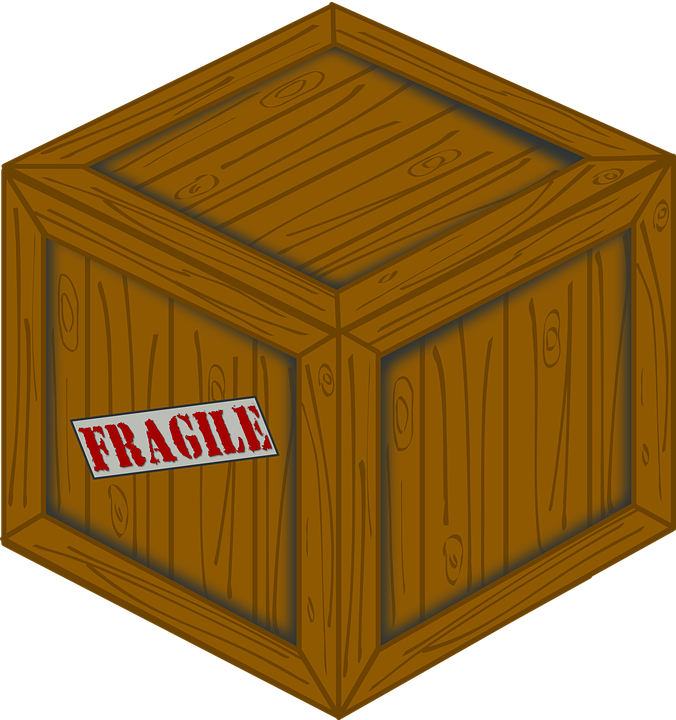
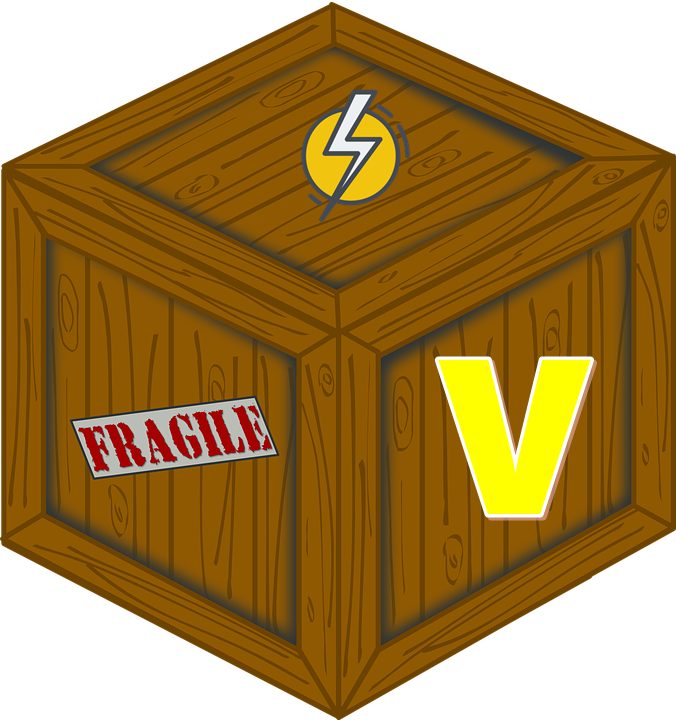
Adicionando caixas e suportes

Changed region(s): [[0.6213, 0.4889, 0.9009, 0.7333], [0.4349, 0.1222, 0.6213, 0.3056]]

diff --git a/model/Personagem.js b/model/Personagem.js
@@ -1,3 +1,4 @@
+//tudo que se move com deslocamento faz parte do cenario formas, caixas.
 function Personagem(){
 
     this.largura = 32;
@@ -19,7 +20,7 @@ function Personagem(){
     
 
     this.atualizarForma =function(){
-        this.forma.x = this.x;
+        this.forma.x = this.x+5;
         this.forma.y = this.y+this.forma.altura;
     }
     this.verificacaoEstouroSprite = function (){
@@ -73,23 +74,22 @@ function Personagem(){
      }   
 
      this.checarColisaoCenario =  function (formas, deslocamento,larguraCenario,alturaCenario){
-        console.log("vai chechar "+formas.length);
-        if(this.x <=  0 ){
+        //console.log("vai chechar "+formas.length);
+        if(this.forma.x <=  0 ){
             this.x=0;
             this.atualizarForma();
             
-        }if(this.x > larguraCenario - this.largura){
-            this.x =larguraCenario - this.largura;
+        }if(this.forma.x > larguraCenario - this.forma.largura){
+            this.x = larguraCenario - this.forma.largura - 5;//cinco é do reposicionamento da forma!
             this.atualizarForma();
             
-        }if(this.y<=0){
-            this.y=0;
+        }if(this.forma.y<=0){
+            this.y=0-this.forma.altura;
             this.atualizarForma();
            
-        }if(this.y >= alturaCenario - this.altura){
-            this.y = alturaCenario - this.altura;
+        }if(this.forma.y >= alturaCenario - this.forma.altura){
+            this.y = alturaCenario - this.forma.altura;
             this.atualizarForma();
-           
         }
 
         for (let i = 0;i<formas.length;i++){
@@ -107,15 +107,18 @@ function Personagem(){
     
 }
 
-var ctx, p = new Personagem(), per = new Image(), fase1c1 = new Image(),fase1c2 = new Image(), fase1c3 = new Image();
+var ctx, p = new Personagem(), perImg = new Image(), fase1c1Img = new Image(),fase1c2Img = new Image(), fase1c3Img = new Image();
 var myVar;
 
 var fase1colisao = new Camada();
 var cenario1 = new Cenario();
 var deslocamento = 0;
 var caixa = new Image();
-
-
+var caixaenergia = new Image();
+var formaCaixa = new Rectangle(); //testar o movimento da caixa.
+var caixaC =  new Caixa();
+var encaixe1 = new Rectangle(), encaixe2 = new Rectangle(), encaixe3 = new Rectangle(), encaixe4 = new Rectangle();
+var circuloImg = new Image();
 
 const DIREITA = 39;
 const ESQUERDA = 37;
@@ -126,22 +129,34 @@ function myTimer (){
     p.podeMudarSprite  = true;
 }
 function carregarImagensdoJogo(){
-    per.src = "Truncks.png";
-    fase1c1.src = "camada1fase1.png";
-    fase1c2.src = "camada2fase1.png";
-    fase1c3.src = "camada3fase1.png";
+
+    perImg.src = "Truncks.png";
+    fase1c1Img.src = "camada1fase1.png";
+    fase1c2Img.src = "camada2fase1.png";
+    fase1c3Img.src = "camada3fase1.png";
     caixa.src = "caixa2.png";
-    per.onload = function(){
+    circuloImg.src = "circulo.png";
+    
+    perImg.onload = function(){
         console.log("0");
-        fase1c1.onload = function(){
+        fase1c1Img.onload = function(){
             console.log("1");
-            fase1c2.onload = function(){
+            fase1c2Img.onload = function(){
                 console.log("2");
 
-                fase1c3.onload = function(){
-                    console.log("3");
+                fase1c3Img.onload = function(){
+                    
                     caixa.onload = function(){
-                        initgame();
+                        console.log("3");
+                        caixaenergia.src = "caixaenergia.png";
+                        caixaenergia.onload = function(){
+                           circuloImg.src = "circulo.png";
+                           circuloImg.onload = function(){
+                                initgame();
+                           }
+                            
+                        }
+                        
                     }  
                 }
             }
@@ -165,13 +180,33 @@ function initgame(){
   
     ctx = document.getElementById("canvas").getContext("2d");
     document.getElementById("canvas").style.border = "1px solid #000";
-    
-    
-    fase1colisao.init(10,30,32,32,camada,0, ctx);
-    cenario1.init([fase1c1,fase1c2,fase1c3],fase1c1.naturalHeight,fase1c1.naturalWidth,[fase1colisao]);
 
-    p.sprite.carregarSprite(4,3,per);
-    p.forma.init(0,p.altura/2, p.largura,p.altura/2);
+    
+    fase1colisao.init(10,30,32,32,camada,0, ctx);//inicia a distribuição das forma de colisao
+  
+
+    p.sprite.carregarSprite(4,3,perImg);
+    p.forma.init(0,p.altura/2, p.largura-10,p.altura/2);
+    
+    //caixaC.init(1,1,caixa,312,192 - (3*32),24,24); //caixa 1
+
+    //caixaC.init(1,1,caixa,0,40,32,30);//Caixa 2
+    //caixaC.init(1,1,caixa,600,264,32,30);//Caixa 3
+    caixaC.init(1,1,caixa,864,32,24,24); //caixa 4
+
+    //colocar as 4 caixas no vetor
+    //usando add de cenario.
+
+    cenario1.init([fase1c1Img,fase1c2Img,fase1c3Img],fase1c1Img.naturalHeight,fase1c1Img.naturalWidth,[fase1colisao],caixa);
+    //Encaixe das caixs
+    encaixe1.init(300,100,32,32);
+    encaixe2.init(900,200,32,32);
+    encaixe3.init(400,34,32,32);
+    encaixe4.init(100,200,32,32);
+
+    //posicionar os encaixes.
+    //colocalos no vetor de cenario.
+    //um desses encaices ja tem a medida perfeita em x, o que esta logo no começo;
     //p.atualizaSprite(ctx,p.direcaoAtual);
     loopGame();
    
@@ -192,17 +227,32 @@ function desenha(){
     ctx.fillStyle = "white";
     ctx.fillRect(0,0,926,300);
     //console.log(deslocamento+" DECLA DESENHA");
-
-    ctx.drawImage(cenario1.camadasImg[0],deslocamento,0,cenario1.largura,cenario1.altura);
+    //Camadas
+    ctx.drawImage(cenario1.camadasImg[0],deslocamento,0,cenario1.largura,cenario1.altura)
     ctx.drawImage(cenario1.camadasImg[1],deslocamento,0,cenario1.largura,cenario1.altura);
     ctx.drawImage(cenario1.camadasImg[2],deslocamento,0,cenario1.largura,cenario1.altura);
-    ctx.drawImage(caixa,400-(3*32) +20 +deslocamento,200 - (3*32),32,32);
-    ctx.drawImage(caixa,400-(3*32) +20 +deslocamento,(200 - (3*32)) + 32,32,32);
-    ctx.drawImage(caixa,400-(3*32) +20 +deslocamento,(200 - (3*32)) + 64,32,32);
+   // ctx.drawImage(caixa,400-(3*32) +20 +deslocamento,200 - (3*32),32,32);
+    //ctx.drawImage(caixa,400-(3*32) +20 +deslocamento,(200 - (3*32)) + 32,32,32);
+
+    //Gradiente
+    ctx.font = "30px Verdana";
+    
+    
+    //Encaixes
+    ctx.drawImage(circuloImg,encaixe1.x+deslocamento,encaixe1.y,encaixe1.largura,encaixe1.altura);
+    ctx.drawImage(circuloImg,encaixe2.x+deslocamento,encaixe2.y,encaixe2.largura,encaixe2.altura);
+    ctx.drawImage(circuloImg,encaixe3.x+deslocamento,encaixe3.y,encaixe3.largura,encaixe3.altura);
+    ctx.drawImage(circuloImg,encaixe4.x+deslocamento,encaixe4.y,encaixe4.largura,encaixe4.altura);
+    //Caixas
+    ctx.drawImage(caixaenergia,400 - 50+ deslocamento,200 - (2*32) -10,64,64);//Central
+    //ctx.drawImage(caixaC.sprite.folheto,caixaC.forma.x+deslocamento,caixaC.forma.y,32,32)
+    ctx.drawImage(caixaC.sprite.folheto,caixaC.forma.x+deslocamento,caixaC.forma.y,caixaC.forma.largura,caixaC.forma.altura);
+    ctx.strokeRect(caixaC.forma.x+deslocamento,caixaC.forma.y,caixaC.forma.largura,caixaC.forma.altura);
+    //Personagem
     p.atualizaSprite(ctx, p.direcaoAtual);
     
     ctx.fillStyle = "blue";
-    
+    //formas Cenario.
     ctx.strokeRect(p.forma.x,  p.forma.y, p.forma.largura,  p.forma.altura);
     for(let i = 0;i<fase1colisao.formasTile.length;i++){
         let forma = fase1colisao.formasTile[i];
@@ -213,7 +263,19 @@ function desenha(){
 
 function renderiza(){
    p.checarColisaoCenario(fase1colisao.formasTile,deslocamento,804,cenario1.altura);//pq o canvas eh maior que a altura jogavel do cenario
+   colisaoCaixa();
    moverCamera(p,960,800,deslocamento);
+}
+function colisaoCaixa(){
+  //caixaC.checarColisao([],deslocamento,804,cenario1.altura,p);
+  if(caixaC.checarColisaoPersonagem(p,deslocamento)){
+      p.x+=-p.dx;
+      p.y+=-p.dy;
+      p.atualizarForma();
+  }
+  caixaC.checarColisaoLimites(960,cenario1.altura);
+  caixaC.checarColisaoFormas(fase1colisao.formasTile,deslocamento);
+
 }
 
 function click(evt){
@@ -221,7 +283,7 @@ function click(evt){
 }
 function moverCamera(personagem,larguraMap, larguraVisivel, desl){
     
-    //ta retornado nulo; colocar metodo em alguma classe;
+    //;
     if(personagem.x> larguraVisivel/2){
             if(personagem.x<(larguraMap - larguraVisivel/2))//pega a variação de movimento
                 deslocamento = -(personagem.x-(larguraVisivel/2));

diff --git a/model/Caixa.js b/model/Caixa.js
@@ -1,0 +1,71 @@
+function Caixa(){
+
+    this.sprite = new Sprite();
+    this.forma = new Rectangle();
+    this.direcaoAntiga = 39;
+    this.tipo = true;
+    this.init = function(rows,columns,img,x,y,altura,largura){
+        this.sprite.carregarSprite(rows,columns,img);
+        this.forma.init(x,y,altura,largura);
+    }
+    this.checarColisaoLimites = function(larguraCenario,alturaCenario){
+        if(this.forma.x <=  0 ){//colisao com o cenario
+            this.forma.x=0;
+            return true;
+        }if(this.forma.x > larguraCenario - this.forma.largura){
+            this.forma.x = larguraCenario - this.forma.largura;
+            return true;
+        }if(this.forma.y<=0){
+            this.forma.y=0;
+            return true;
+        }if(this.forma.y >= alturaCenario - this.forma.altura){
+            this.forma.y = alturaCenario - this.forma.altura;
+            return true;
+        }
+        return false;
+    }
+    this.checarColisaoPersonagem = function(personagem,deslocamento){
+        if(personagem.forma.colisao(this.forma.x+deslocamento,this.forma.y,this.forma.largura,this.forma.altura)){//colisao com personagem
+            console.log("Colidiu Caixa");
+            if(personagem.direcaoAtual == DIREITA){
+                this.direcaoAntiga =  DIREITA;
+                this.forma.x+=8;//multiplos de 2
+                
+            }else if(personagem.direcaoAtual ==ESQUERDA){
+                this.direcaoAntiga =  ESQUERDA;
+                this.forma.x-=8;
+                
+            }else if(personagem.direcaoAtual == CIMA){
+                this.direcaoAntiga =  CIMA;
+                this.forma.y-=8;
+                
+            }
+            else if(personagem.direcaoAtual == BAIXO){
+                this.direcaoAntiga = BAIXO;
+                this.forma.y+=8;
+               
+            }
+            return true;
+        }
+        return false;
+    }
+    this.checarColisaoFormas = function(formas, deslocamento){//deslocamento so atinge coisas staticas
+         for (let i = 0;i<formas.length;i++){
+             if(this.forma.colisao(formas[i].x,formas[i].y,formas[i].largura,formas[i].altura)){
+                 console.log("Colisao Cixa"+formas[i].x);
+                if(this.direcaoAntiga == DIREITA){
+                    console.log("Colisao Direita"+formas[i].x);
+                    this.forma.x -=  this.forma.x + this.forma.largura - formas[i].x;//colca de lado do bloco. Tira a diferença do que colidiu |[|]
+                }else if(this.direcaoAntiga == ESQUERDA){
+                    this.forma.x+= formas[i].x + formas[i].largura  - this.forma.x;
+                }else if(this.direcaoAntiga == CIMA){
+                    this.forma.y=formas[i].y + formas[i].altura + 1; 
+                }
+                else if(this.direcaoAntiga == BAIXO){
+                    this.forma.y = formas[i].y - 1 - this.forma.altura; 
+                }
+                return true;
+          }
+        }
+    }
+}

diff --git a/model/Cenario.js b/model/Cenario.js
@@ -1,16 +1,41 @@
 function Cenario(){
 
-    this.camadasImg = new Array();
+    this.camadasImg = new Array();//imgs das camadas.
     this.altura;
-    this.largura;
-    this.camadasColisao = new Array();
+    this.largura;//largura total e nao do canvas
+    this.camadasColisao = new Array();//camadas que possuem colisoes.
+    this.caixas = new Array();//Caixas completas
+    this.circulosCaixa = new Array();//circulos de encaixe[apenas rectangles]
 
-    this.init = function (camada, altura, largura,camadasColisao){
-        this.camadasImg = camada;
+    this.init = function (camadasImg, altura, largura,camadasColisao){
+        this.camadasImg = camadasImg;
         this.altura = altura;
         this.largura = largura;
         this.camadasColisao  = camadasColisao;
+    }
 
+    this.addCaixas = function(x,y,tipo, img, rows, columns, altura,largura){
+        //a caixa nao pode colidir com o cenario
+        //a caixa nao pode ficar nas extremidades coladas nas bordas.
+        //posicoes é tamnho 16;
+        let caixa = new Caixa();
+        caixa.tipo = tipo;
+        caixa.init(rows, columns,img,x,y,altura,largura);
+        this.caixas.push(caixa);
+    }
+
+    this.addCirculos = function(x,y,largura,altura){
+         //o circulo nao pode colidir com o cenario
+         //o circulo nao pode colidir com a caixa;
+         let r = new Rectangle();
+         r.init(x,y,largura,altura);
+         this.circulosCaixa.psuh(r);
+    }
+    
+    this.randomCenario = function getRandomIntInclusive(min, max) {//inclue o minino e maximo
+        min = Math.ceil(min);
+        max = Math.floor(max);
+        return Math.floor(Math.random() * (max - min + 1)) + min;
     }
 
 }

diff --git a/index.html b/index.html
@@ -7,6 +7,7 @@
         <script type="text/javascript" src="model/Sprite.js"> </script>
         <script type="text/javascript" src="model/Rectangle.js"> </script>
         <script type="text/javascript" src="model/Cenario.js"> </script>
+        <script type="text/javascript" src="model/Caixa.js"> </script>
         <script type="text/javascript" src="model/Personagem.js"> </script>
         
 

diff --git a/model/Camada.js b/model/Camada.js
@@ -4,7 +4,7 @@ function Camada(){
     this.columns;//colunas do mapa
     this.widthTile;//largura do tile (normalmente 32px)
     this.heightTile;
-    this.camada = new Array();//array com todos os valores da camada.
+    this.camada = new Array();//array com todos os valores da camada. Inteiro. Uqase a matriz
     
     this.tileNaoEntra = 0;
 
